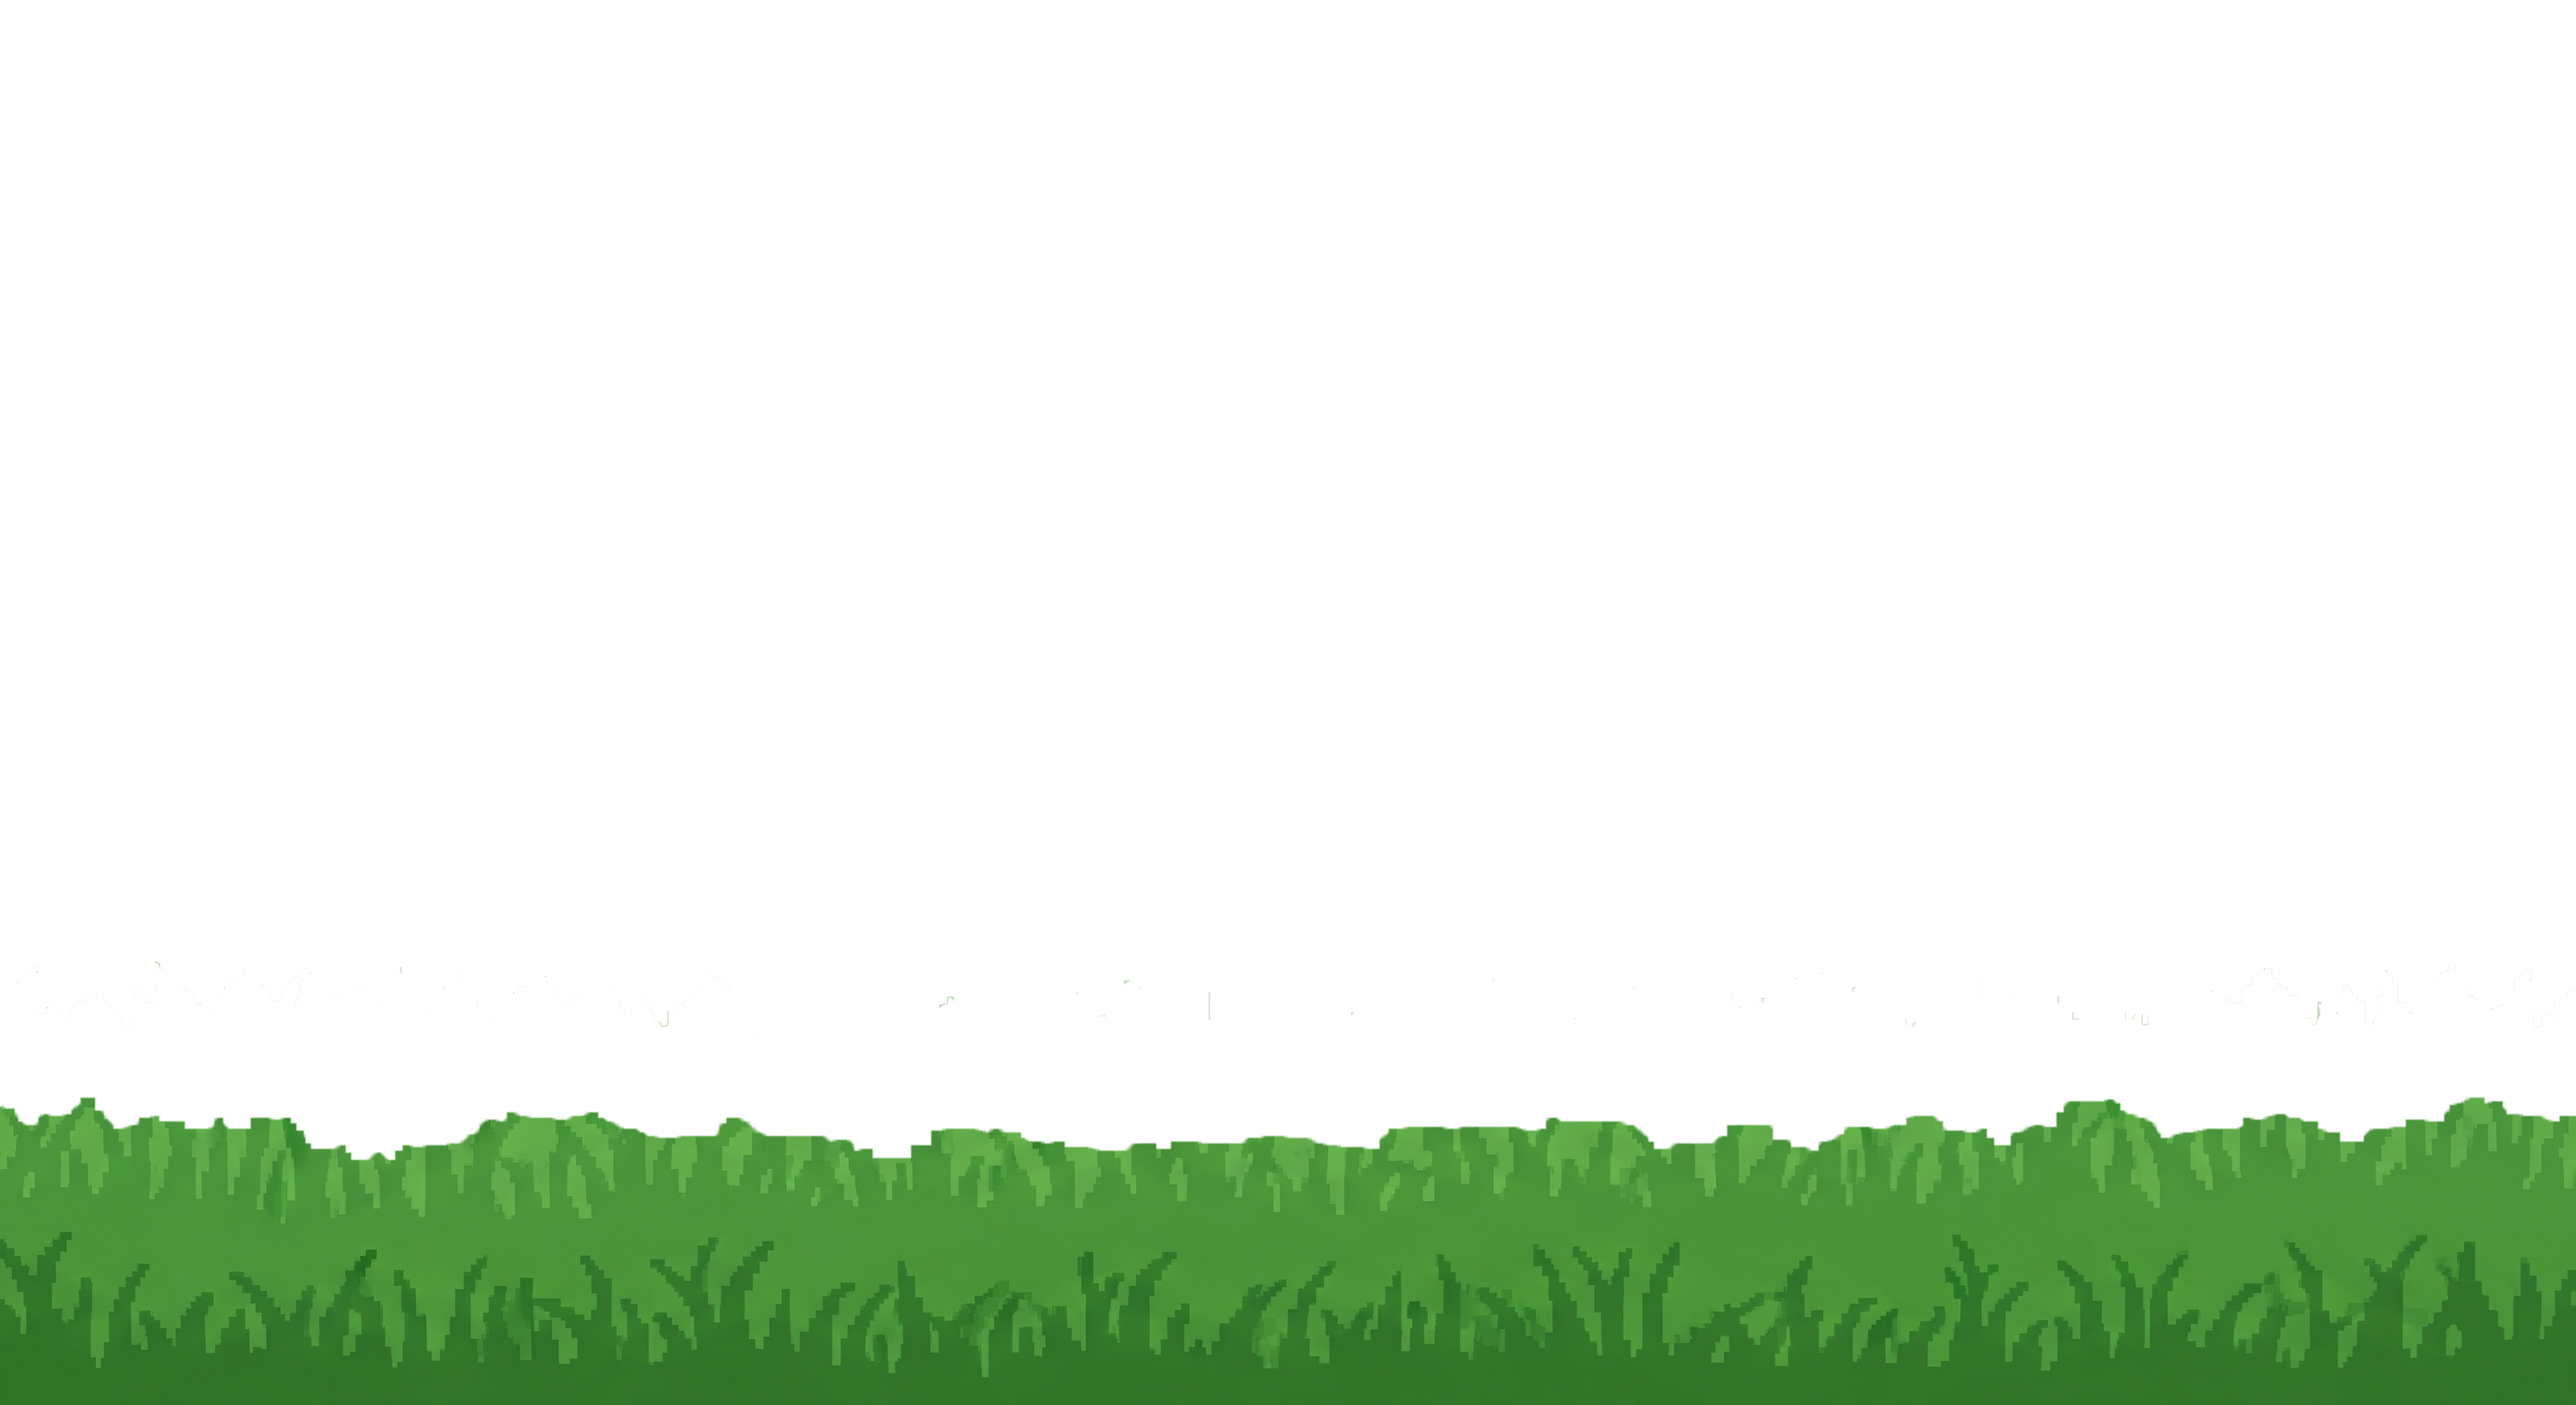
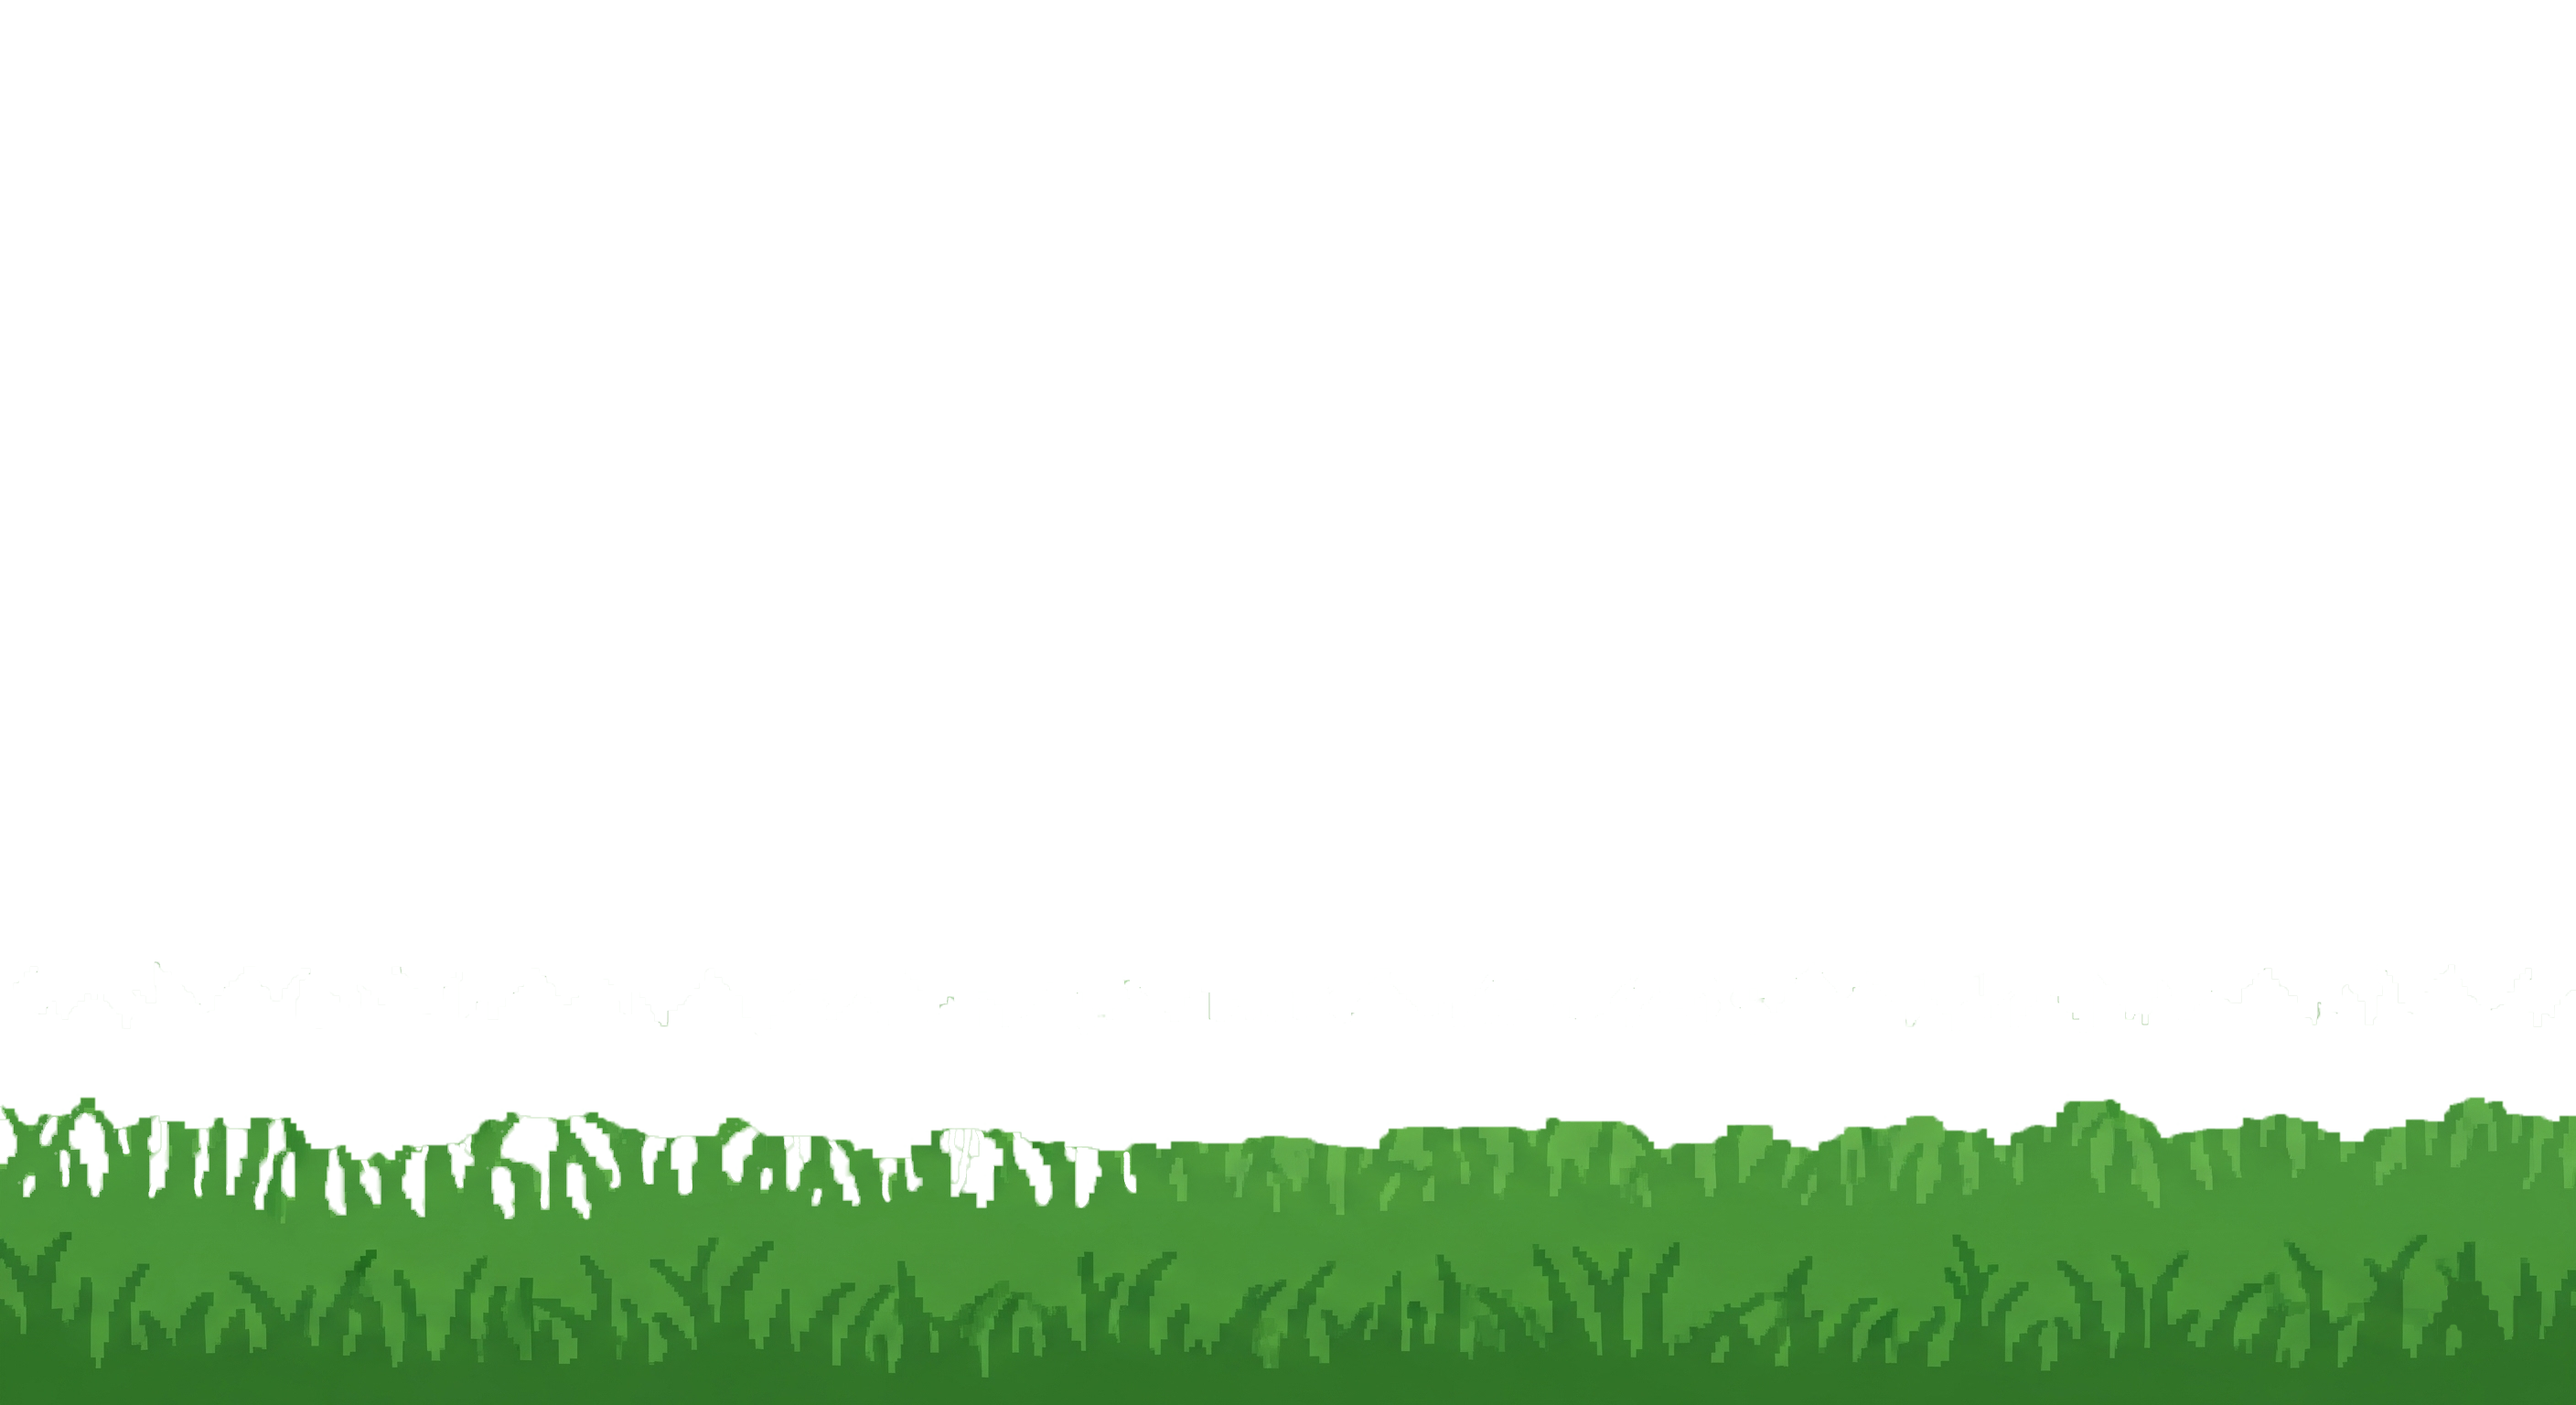
aggiunto castello

Changed region(s): [[0.0, 0.7812, 0.4375, 0.875]]

diff --git a/useless_app/lib/landscape.dart b/useless_app/lib/landscape.dart
@@ -449,6 +449,19 @@ class _LandscapeBackgroundState extends State<LandscapeBackground> with SingleTi
         ),
       ));
 
+      // --- CASTELLO tra prato3 e prato2, solo se counter >= 1200 ---
+      if (widget.counter >= 1200) {
+        children.add(Positioned(
+          left: -100,
+          bottom: 40, // più in basso rispetto a prima
+          child: Image.asset(
+            'assets/images/castello.png',
+            width: 200, // più piccolo
+            fit: BoxFit.contain,
+          ),
+        ));
+      }
+
       // Prato 2 (in mezzo)
       children.add(Positioned(
         left: 0,
